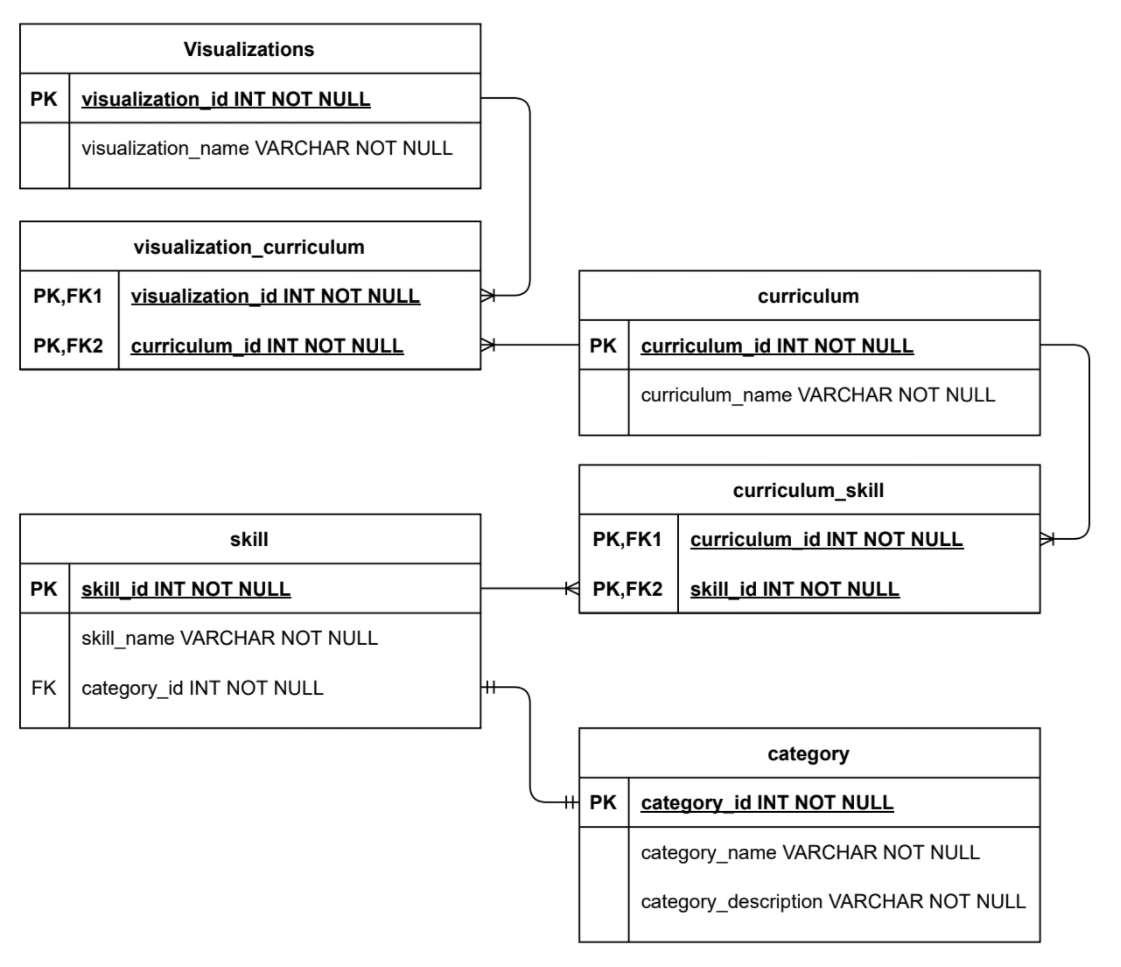
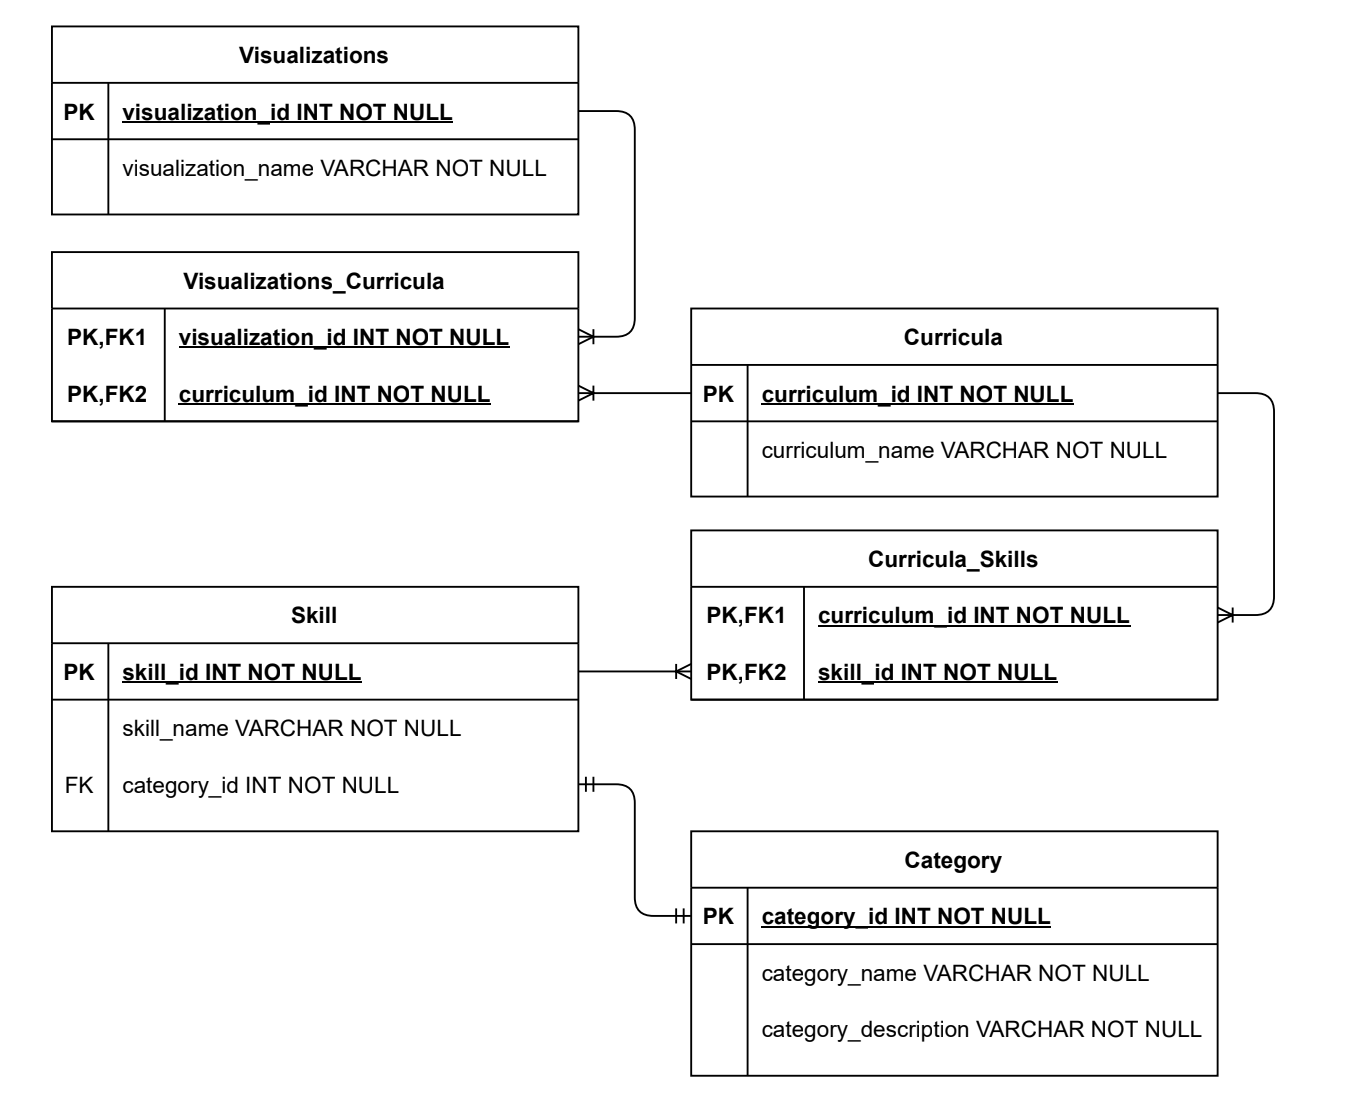
Fix table of contents and change ERD image

Changed region(s): [[0.0, 0.0, 0.9679, 0.9928], [0.4683, 0.1241, 0.4996, 0.2792]]

diff --git a/README.md b/README.md
@@ -11,6 +11,19 @@
     - [View Page](#View-Page)
     - [Edit Pages](#Edit-Pages)
         - [Edit Skills and Categories](#Edit-Skills-and-Categories)
+        - [Edit Curricula](#Edit-Curricula)
+        - [Edit Visualizations](#Edit-Visualizations)
+    - [Front End Testing](#Front-End-Testing)
+        - [Jasmine](#Jasmine)
+        - [Protractor](#Protractor)
+* [Back End API](#Back-End-API)
+    - [Sample Outputs](#Sample-Outputs)
+    - [Endpoints](#Endpoints)
+    - [Models](#Models)
+    - [Controller Layer](#Controller-Layer)
+    - [Service Layer](#Service-Layer)
+    - [Dao Layer](#Dao-Layer)
+    - [Back End Testing](#Back-End-Testing)
 
 # Overview
 
@@ -55,15 +68,18 @@ include screenshot here
 
 talk about each of the buttons on the page and their function
 
-## Testing
-Talk about Jasmine and Protractor
+## Front End Testing
+
+## Jasmine
+
+## Protractor
 
 
 
 ---
 # Back End API
 
-## Sample Output
+## Sample Outputs
 ### Visualization Object
 ```json
 {
@@ -449,6 +465,7 @@ Talk about Jasmine and Protractor
 * List\<Curriculum> curriculumList
     - Join Table: "Visualizations_Curricula"
 ### Curriculum
+**Attributes:** 
 * int curriculumId
     - Database Column: "curriculum_id"
 * String curriculumName
@@ -456,6 +473,7 @@ Talk about Jasmine and Protractor
 * List\<Curriculum> curriculumList
     - Join Table: "Curricula_Skills"
 ### Skill
+**Attributes:** 
 * int skillId
     - Database Column: "skill_id"
 * String skillName
@@ -463,6 +481,7 @@ Talk about Jasmine and Protractor
 * Category category
     - Join Column: "category_id"
 ### Category
+**Attributes:** 
 * int categoryId
     - Database Column: "category_id"
 * String categoryName
@@ -485,7 +504,7 @@ Service Layer includes business logic for CRUD operations for each of the models
 The Dao operations were handled through the use of Spring Data JPA. Objects were stored within the database through hibernate, and the ERD for the tables within the database is shown below.
 ![](Images/Project3ERD.PNG)
 
-## Testing
+## Back End Testing
 Unit and integration testing was performed on the back end utilizing JUnit Jupiter and Mockito.
 Utilizing both, the project achieved 100% code coverage of the controller, service, and dao layers.
 Code coverage can be further explored via SonarCloud [here](https://sonarcloud.io/dashboard?id=bach-tran-batch-1006_visualization-tool-server)
